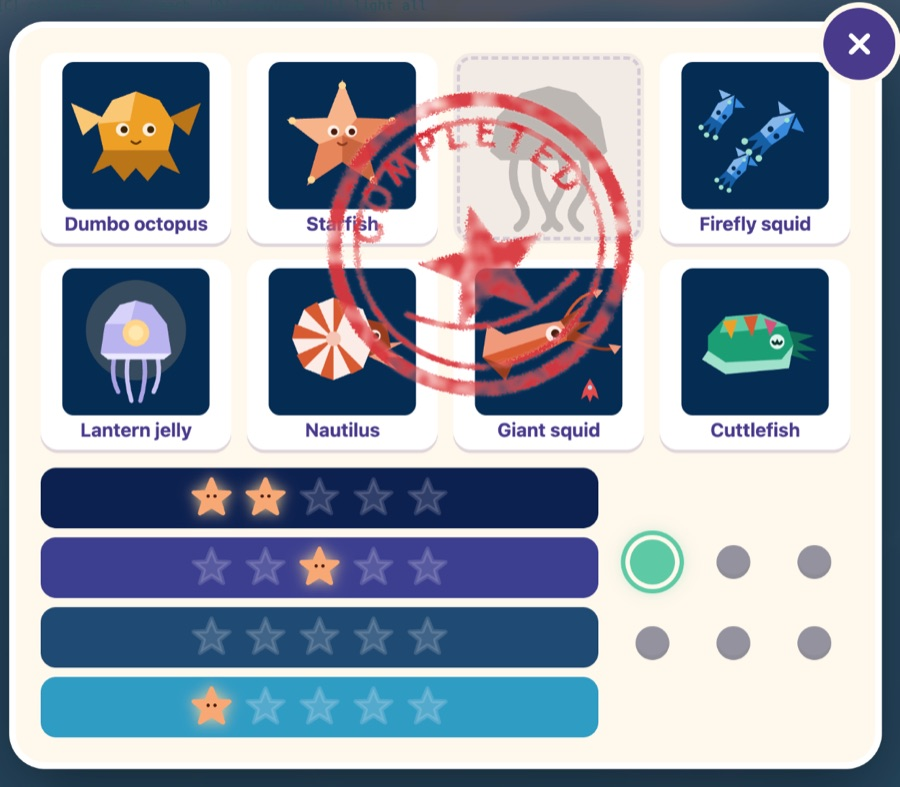
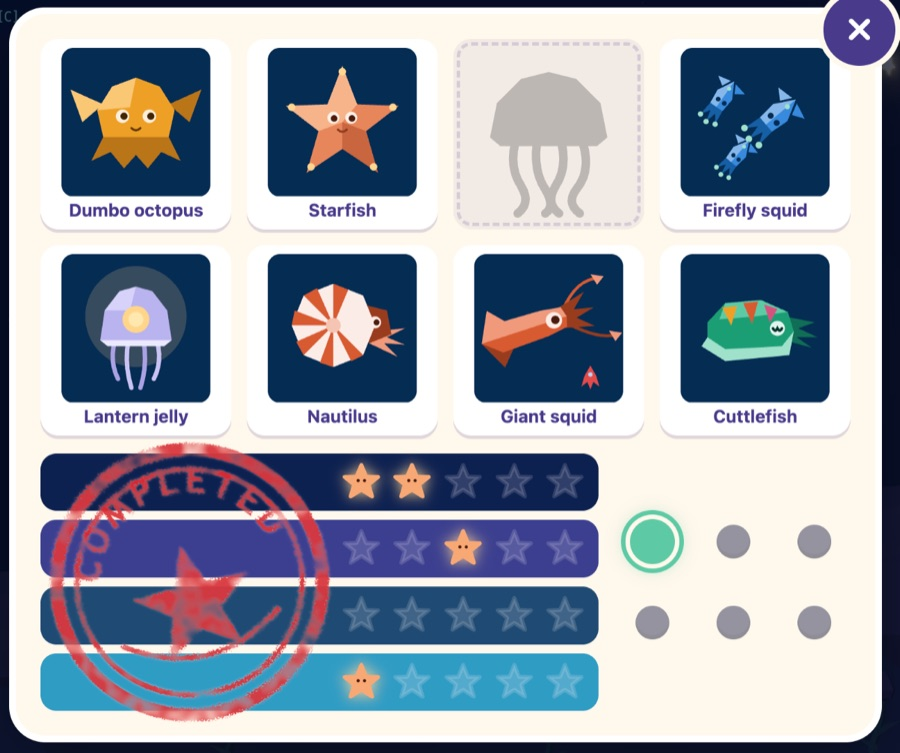
feat(album): put the completed stamp beside the starfish strips
The stamp covered creature stamps; now it sits on the left of the
starfish strips, whose starfish move to the right end to make room.

diff --git a/src/ui/album.ts b/src/ui/album.ts
@@ -141,9 +141,9 @@ export class Album {
         <div class="album-grid"></div>
         <div class="album-bottom">
           <div class="album-stars"></div>
+          <div class="album-done">${doneStamp(t('completed'))}</div>
           <div class="album-colours"></div>
         </div>
-        <div class="album-done">${doneStamp(t('completed'))}</div>
       </div>`;
     this.grid = this.overlay.querySelector('.album-grid')!;
     this.stars = this.overlay.querySelector('.album-stars')!;
@@ -197,6 +197,7 @@ export class Album {
     this.done.classList.remove('show', 'slam');
     void this.done.offsetWidth;
     this.done.classList.add('slam');
+    this.overlay.classList.add('completed');
   }
 
   toggle(): void {
@@ -271,6 +272,8 @@ export class Album {
     }
     this.showColours();
     this.done.classList.toggle('show', this.world.completed);
+    // Completed, the starfish move to the right end of their strips: the stamp sits in the space on the left.
+    this.overlay.classList.toggle('completed', this.world.completed);
     this.done.classList.remove('slam');
     // Every stamp is in view now: nothing is unseen any more.
     for (const f of this.world.unviewed) this.world.view(f);

diff --git a/src/style.css b/src/style.css
@@ -685,9 +685,14 @@ button {
 }
 
 .album-bottom {
+  position: relative;
   display: flex;
   gap: 16px;
   align-items: center;
+}
+
+.album.completed .starfish-row {
+  justify-content: flex-end;
 }
 
 .album-stars {
@@ -781,16 +786,16 @@ button {
 }
 
 /*
- * The completed stamp: red ink across the album page, at an angle, like a
- * stamp in a passport. It thumps down when the journey ends (with a little
- * shake of the book) and stays there.
+ * The completed stamp: red ink at an angle, like a real rubber stamp, on
+ * the left of the starfish strips (their starfish move right to make room),
+ * so it covers none of the creatures. It thumps down when the journey ends
+ * (with a little shake of the book) and stays there.
  */
 .album-done {
   position: absolute;
-  left: 54%;
-  top: 8%;
-  width: clamp(130px, 40%, 280px);
-  margin-left: calc(clamp(130px, 40%, 280px) / -2);
+  left: 4px;
+  top: -6%;
+  height: 112%;
   aspect-ratio: 1;
   color: rgba(214, 38, 52, 0.9);
   transform: rotate(-14deg);

diff --git a/openspec/changes/iteration-6-sunlit-reef/specs/sticker-album/spec.md b/openspec/changes/iteration-6-sunlit-reef/specs/sticker-album/spec.md
@@ -16,7 +16,7 @@ Beside the starfish strips, the album page SHALL show the glow-colour dots, in r
 - **THEN** the dot wiggles and nothing else changes
 
 ### Requirement: Completed stamp
-When the journey is completed (the sunbeam in the Sunlit reef, as defined in `sunlit-reef`), the album SHALL open and a completed stamp SHALL thump onto its page: red ink in a double ring, a star in the middle and the word round the top, at an angle, with rough edges and patchy ink like a real rubber stamp. The stamp SHALL stay on the page every time the album is opened afterwards. The word is decoration: nothing needs reading.
+When the journey is completed (the sunbeam in the Sunlit reef, as defined in `sunlit-reef`), the album SHALL open and a completed stamp SHALL thump onto its page: red ink in a double ring, a star in the middle and the word round the top, at an angle, with rough edges and patchy ink like a real rubber stamp. It SHALL sit on the left of the starfish strips, whose starfish move to the right end to make room, so it covers no creature stamp. The stamp SHALL stay on the page every time the album is opened afterwards. The word is decoration: nothing needs reading.
 
 #### Scenario: Completing the journey
 - **WHEN** the squid swims up into the sunbeam

diff --git a/openspec/changes/iteration-6-sunlit-reef/design.md b/openspec/changes/iteration-6-sunlit-reef/design.md
@@ -60,7 +60,7 @@
 - The rest of the surface is only a soft wall: looking for the cuttlefish near the top never ends the game by accident (the first version used the whole surface and was too easy to bump into)
 - Drawn with normal blending (warm column, a glowing gap, rising sparkles): added light vanishes in the bright water
 - Completing opens the album, where a completed stamp thumps onto the page and stays (the first version had its own win card with shooting stars; the album is the game's one goal, so the end belongs there)
-- The stamp is an inline SVG: double ring, star, the word on an arc, roughened with an SVG noise filter for a rubber-stamp look
+- The stamp is an inline SVG: double ring, star, the word on an arc, roughened with an SVG noise filter for a rubber-stamp look; it sits on the left of the starfish strips (their starfish move right), covering no creature
 - Saved as `completed` in the world state; the sunbeam opens the album again only after the squid has swum well away
 
 ### Sunglasses as an attachable node

diff --git a/docs/itch/devlog/2026-11-20-sunlit-reef.md b/docs/itch/devlog/2026-11-20-sunlit-reef.md
@@ -16,7 +16,7 @@ The top of the world is open: the **Sunlit reef**, a bright coral garden under t
 - **The end of the journey.** Somewhere on the reef, a sunbeam pours down through the surface. Swim up into it: the sticker album opens and a big red "completed" stamp thumps onto the page, like a real rubber stamp. It stays there. Close the album and play on.
 - **More to find:** five new starfish, a bubble-ring chain and the cuttlefish's album page with a fun fact.
 
-![The sticker album with the red completed stamp across the page](sunlit-reef-completed.jpg)
+![The sticker album with the red completed stamp beside the starfish](sunlit-reef-completed.jpg)
 
 ## For grown-ups
 
